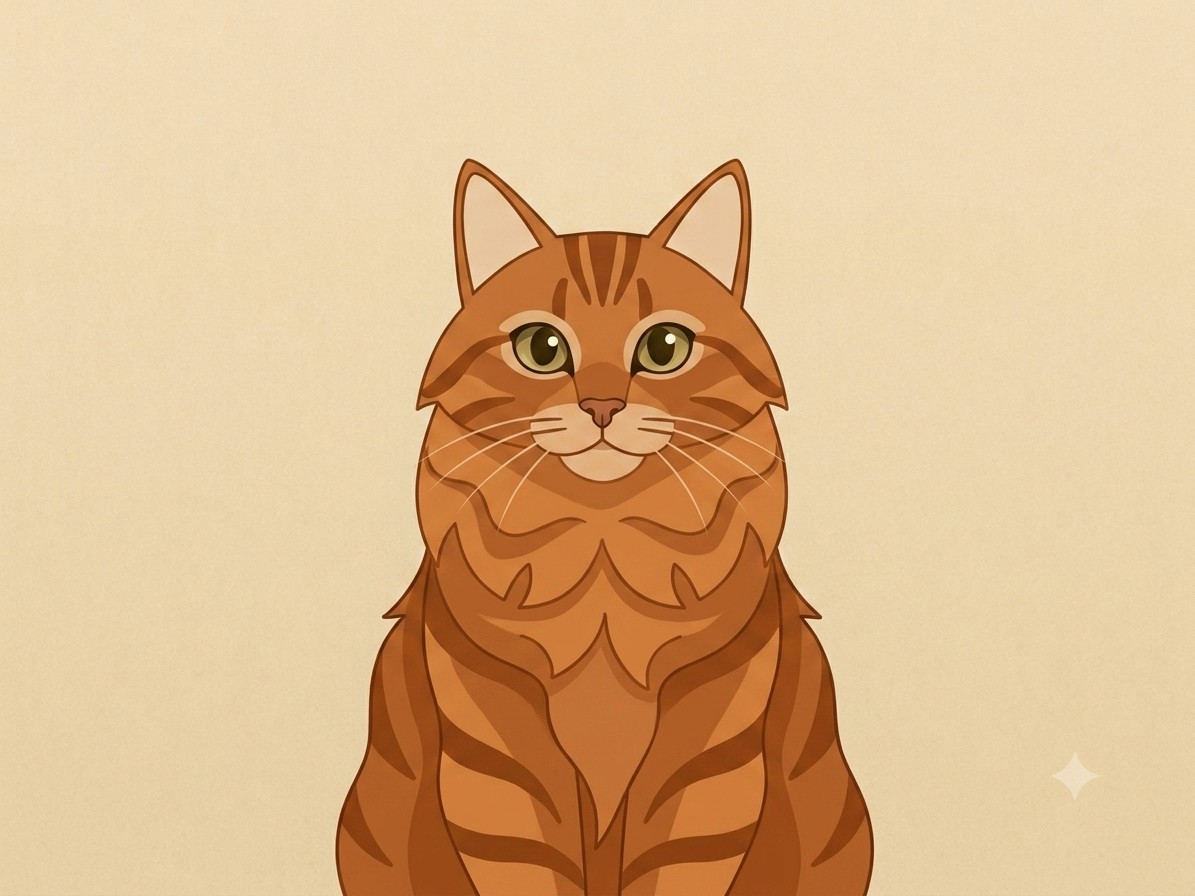
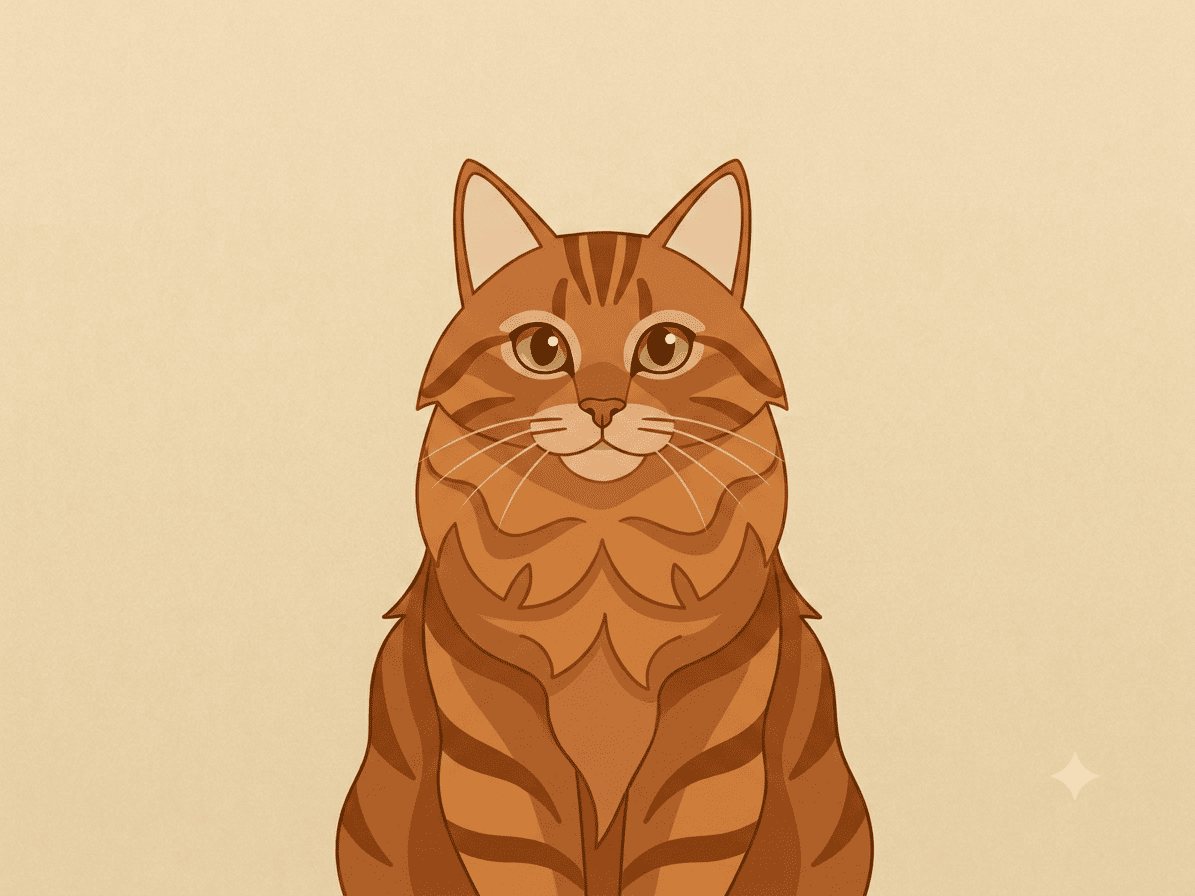
fetch

Changed region(s): [[0.5264, 0.3438, 0.5883, 0.4375], [0.4025, 0.3438, 0.4954, 0.4375]]

diff --git a/V32/js/prenotazione.js b/V32/js/prenotazione.js
@@ -163,9 +163,9 @@
 
         const data_ora = valoreDataOra();
 
-        const corpo = new FormData();
-        corpo.append('data_ora', data_ora);
-        corpo.append('gatti_ids', gatti_correnti.map(g => g.id).join(','));
+        const corpo =
+            'data_ora=' + data_ora +
+            '&gatti_ids=' + gatti_correnti.map(g => g.id).join(',');
 
         bottone_prenota.disabled = true;
         bottone_prenota.textContent = 'Invio in corso…';
@@ -176,11 +176,18 @@
             bottone_prenota.textContent = 'Conferma prenotazione';
         }
 
-        fetch('interfaccia/prenota_visita.php', { method: 'POST', body: corpo, credentials: 'same-origin' })
+        fetch('interfaccia/prenota_visita.php', {
+            method: 'POST',
+            headers: {
+                'Content-Type': 'application/x-www-form-urlencoded'
+            },
+            body: corpo,
+            credentials: 'same-origin'
+        })
             .then(function (r) { return r.json(); })
             .then(function (dati) {
                 if (dati.errore) {
-                    mostraMessaggio('Errore: ' + dati.errore, 'errore');
+                    mostraMessaggio(dati.errore, 'errore');
                     console.error('[Prenotazione] errore server:', dati.errore, '— codice:', dati.codice);
                     ripristinaPulsante();
                 } else {

diff --git a/V32/js/volontariato.js b/V32/js/volontariato.js
@@ -255,8 +255,7 @@
             return;
         }
 
-        const corpo = new FormData();
-        corpo.append('fasce', fasce_selezionate.join(','));
+        const corpo = 'fasce=' + fasce_selezionate.join(',');
 
         bottone_volontariato.disabled = true;
         bottone_volontariato.textContent = 'Invio in corso…';
@@ -268,7 +267,14 @@
         }
 
         // Elabora la risposta del server
-        fetch('interfaccia/recupera_turni.php', { method: 'POST', body: corpo, credentials: 'same-origin' })
+        fetch('interfaccia/recupera_turni.php', {
+            method: 'POST',
+            headers: {
+                'Content-Type': 'application/x-www-form-urlencoded'
+            },
+            body: corpo,
+            credentials: 'same-origin'
+        })
             .then(function (r) { return r.json(); })
             .then(function (dati) {
                 if (dati.errore) {

diff --git a/V32/interfaccia/recupera_turni.php b/V32/interfaccia/recupera_turni.php
@@ -183,7 +183,7 @@ if ($metodo === 'GET') {
             if (!$conn) {
                 scriviLog('errore', 'turni POST: connessione al database non riuscita');
                 header('HTTP/1.1 500 Internal Server Error');
-                echo json_encode(['errore' => 'Errore del database durante la prenotazione.', 'codice' => 'DB_ERROR']);
+                echo json_encode(['errore' => 'Errore del database durante la prenotazione. Riprova tra qualche minuto', 'codice' => 'DB_ERROR']);
             } else {
                 $utente_id = (int) $profilo['id'];
                 $avvisi_turni = [];
@@ -281,7 +281,7 @@ if ($metodo === 'GET') {
 
                 if ($errore_db) {
                     header('HTTP/1.1 500 Internal Server Error');
-                    echo json_encode(['errore' => 'Errore del database durante la prenotazione.', 'codice' => 'DB_ERROR']);
+                    echo json_encode(['errore' => 'Errore del database durante la prenotazione. Riprova tra qualche minuto.', 'codice' => 'DB_ERROR']);
                 } elseif ($inseriti === 0 && !empty($avvisi_turni)) {
                     header('HTTP/1.1 409 Conflict');
                     echo json_encode([